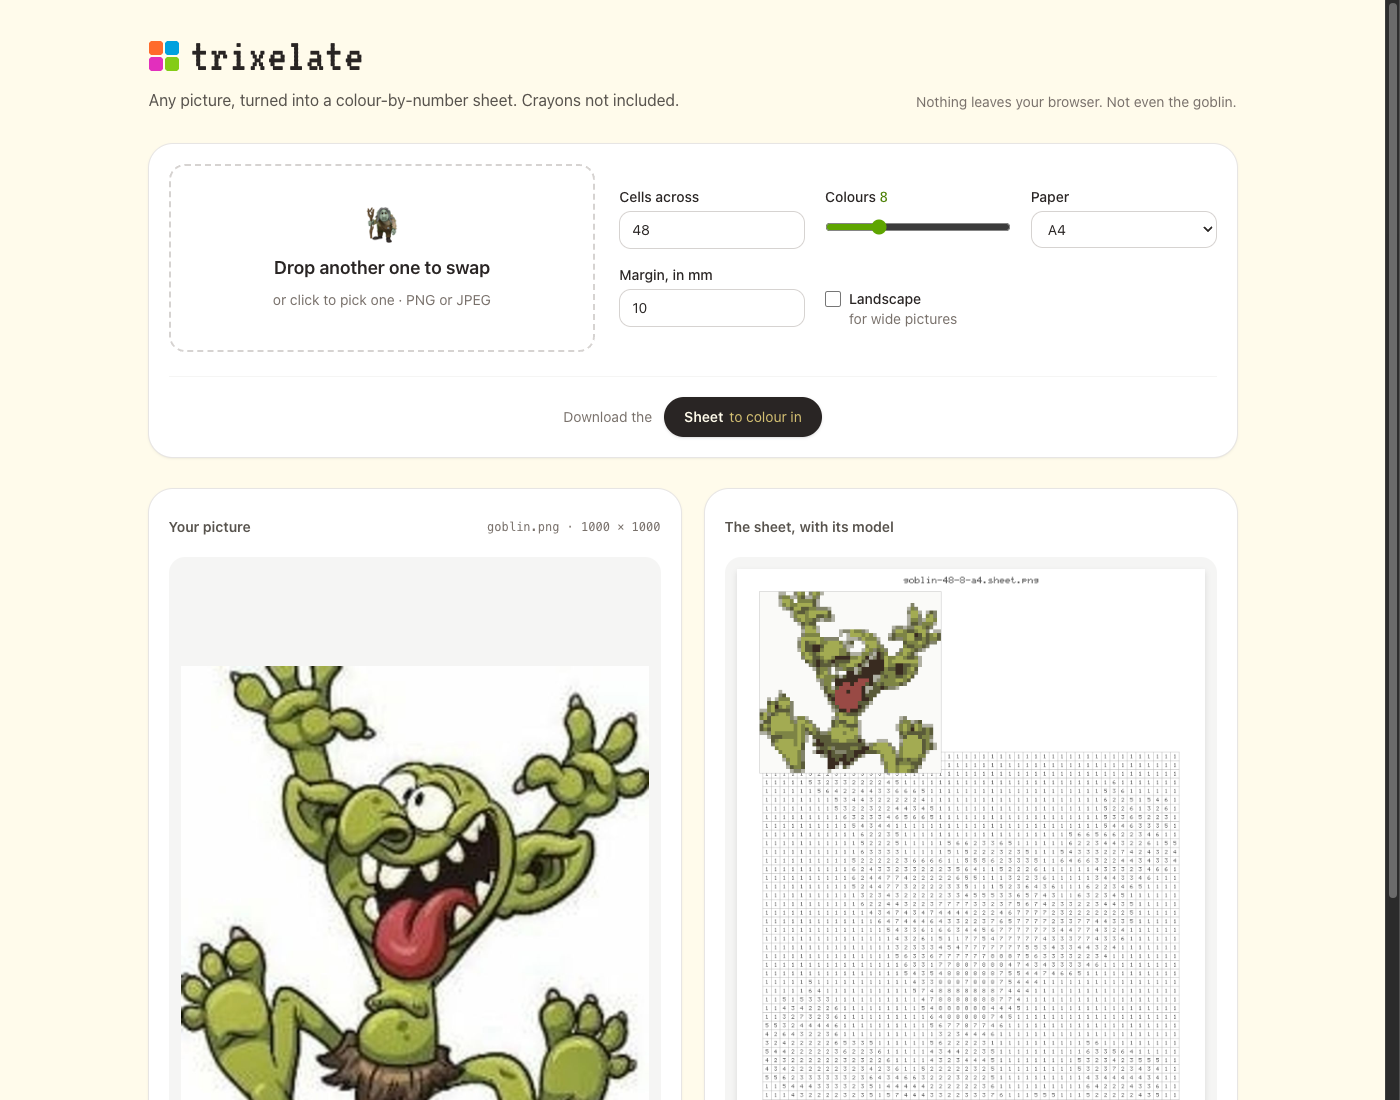
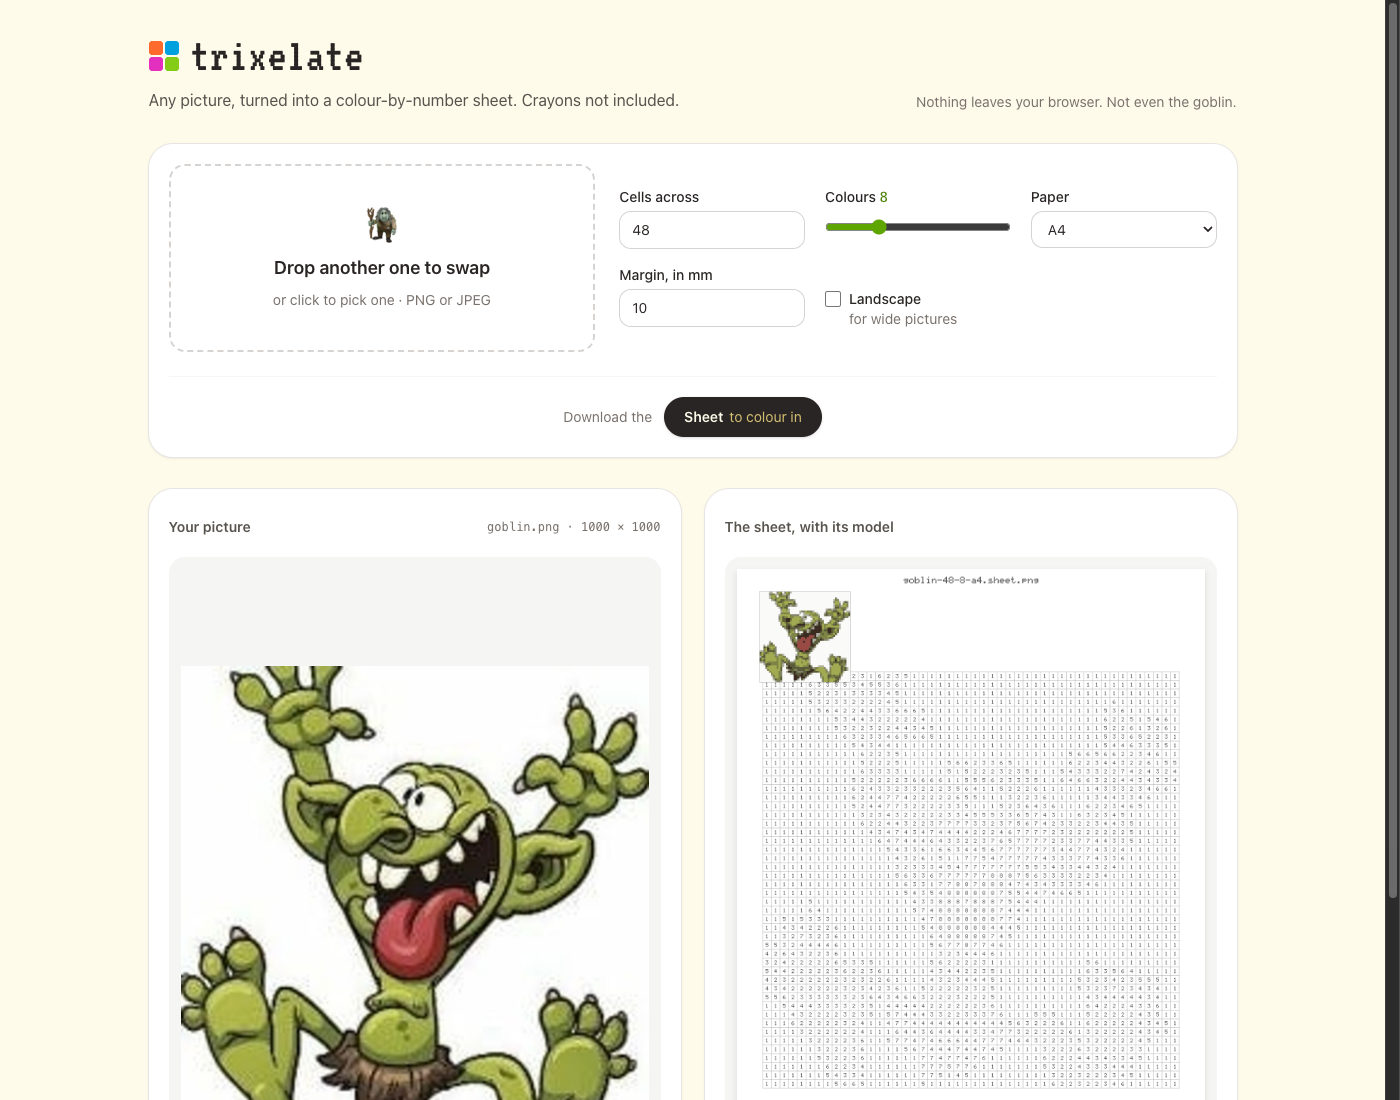
docs: the model is half as big and the grid centred above the legend either way up

Changed region(s): [[0.5221, 0.5255, 0.86, 1.0]]

diff --git a/README.md b/README.md
@@ -75,7 +75,7 @@ make web-build  # a static site in crates/trixelate-web/dist, for any host
 3. **The palette is cut from the cells' colours**: the box of colours that spreads the most is cut through the middle of its widest channel until there are as many boxes as colours asked, and each box gives its weighted average. Far-apart colours are never merged, and colour 1 is the one used most.
 4. **Every cell takes the number of its nearest palette colour**, and a colour no cell takes is dropped, so every bubble has cells to colour.
 5. **The layout gives the cells the largest square side the page allows**, inside the margin and above the legend, and the largest digits each cell and bubble can hold.
-6. **The model sits in miniature in the page's top left corner**, inside the margin, a block of colour per cell, framed, with no number and no line. Upright, it is seven sixteenths of the grid's width, the grid set down on the legend, and over the grid where they meet. On its side, it sits beside the grid, which moves to the right and grows as tall as the room, the model filling the room left from a quarter to half the grid's width, the legend in rows below it. The sheet is then titled with its file name, as big as the bubbles' numbers.
+6. **The model sits in miniature in the page's top left corner**, inside the margin, a block of colour per cell, framed, with no number and no line. It is seven thirty-seconds of the grid's width, over the grid where they meet, the grid staying centred above the legend whichever way up the paper lies. The sheet is then titled with its file name, as big as the bubbles' numbers.
 7. **A small credit is written at the bottom right**, in the margin: trixelate and its licence.
 
 ![A twelve-colour sheet on A5: the grid of numbered cells, the twelve colours in miniature over its top left corner, the legend below, the file name on top](crates/trixelate-cli/tests/golden/twelve-a5.sheet.png)

diff --git a/GLOSSARY.md b/GLOSSARY.md
@@ -11,11 +11,11 @@ The words trixelate's code and docs use, read before naming anything.
 | **Colour number** | A colour's place in the palette, from 1, written in every cell to paint with it. |
 | **Colouring** | A grid's cells, each with its colour number, and the palette they are numbered from. |
 | **Sheet** | The page printed for the child: the grid of numbered cells and its legend. |
-| **Model** | The picture in miniature in the page's top left corner of every sheet, a block of colour per cell with no number and no line, for the child to see what they are making. Upright, it is seven sixteenths of the grid wide, the grid set down on the legend, and over the grid where they meet; on its side, it sits beside the grid, filling the room the grid leaves, from a quarter to half the grid's width. |
+| **Model** | The picture in miniature in the page's top left corner of every sheet, a block of colour per cell with no number and no line, for the child to see what they are making. It is seven thirty-seconds of the grid wide, over the grid where they meet. |
 | **Page format** | The paper the sheet is drawn for, A3, A4 or A5, at 300 dots per inch. |
 | **Orientation** | Which way up the paper lies: portrait, upright, or landscape, on its side. |
 | **Margin** | The blank paper around the sheet's content, 10 mm unless asked otherwise. |
-| **Legend** | The row of bubbles at the bottom of a sheet, or the rows below the model on a landscape sheet. |
+| **Legend** | The row of bubbles centred at the bottom of a sheet, whichever way up the paper lies. |
 | **Credit** | The small line at the bottom right of every sheet, in its margin: trixelate and its licence. |
 | **Title** | The sheet's file name, centred in the top margin of every sheet, as big as the bubbles' numbers. |
 | **Bubble** | A disc filled with one palette colour, its colour number written inside. |
